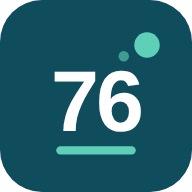
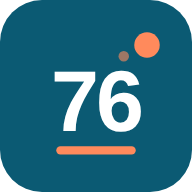
Switch identity to teal blue & orange, make background shapes visible
- Ink and teal were too close: palette is now teal blue #0b5a73 with
  orange #c2410c (dark mode #7cc4d9 / #ff8a5c on #141a24), all AA
- Homepage background back to white with more saturated soft tints and
  stronger dots so the animated background shows again
- Logo, PNG icons, theme-color, manifest, Word export, print, tirage dice
  and accessibility page follow the new palette; CLAUDE.md updated

Claude-Session: https://claude.ai/code/session_014dQTnjNuXvJ4eNxs8Srk6G

Changed region(s): [[0.2812, 0.75, 0.7188, 0.8125], [0.5938, 0.1562, 0.8438, 0.3438]]

diff --git a/accueil/style.css b/accueil/style.css
@@ -9,18 +9,18 @@
 @font-face { font-family: "Atkinson Hyperlegible"; src: url(https://cdn.jsdelivr.net/npm/@fontsource/atkinson-hyperlegible@5.3.0/files/atkinson-hyperlegible-latin-400-normal.woff2) format("woff2"); font-weight: 400; font-display: swap; }
 @font-face { font-family: "Atkinson Hyperlegible"; src: url(https://cdn.jsdelivr.net/npm/@fontsource/atkinson-hyperlegible@5.3.0/files/atkinson-hyperlegible-latin-700-normal.woff2) format("woff2"); font-weight: 700; font-display: swap; }
 
-/* ---------- 2. THÈME : identité « encre & sarcelle » ---------- */
-/* --primary : encre (titres, boutons) · --accent : sarcelle (mots mis en avant, filet) · --danger : erreurs seulement */
+/* ---------- 2. THÈME : identité « bleu canard & orange » ---------- */
+/* --primary : bleu canard (titres, boutons) · --accent : orange (mots mis en avant, filet) · --danger : erreurs seulement */
 :root {
-  --bg: #f7f8f7; --surface: #ffffff; --surface-alpha: rgba(255, 255, 255, .92);
-  --text: #17242b; --muted: #4f5d63; --border: #e1e7e7;
-  --primary: #0f4c5c; --primary-soft: #e2eef0;
-  --accent: #16796b;  --accent-soft: #e0f3ef;
+  --bg: #ffffff; --surface: #ffffff; --surface-alpha: rgba(255, 255, 255, .92);
+  --text: #17242b; --muted: #4f5d63; --border: #dfe7ea;
+  --primary: #0b5a73; --primary-soft: #cfe6ee;
+  --accent: #c2410c;  --accent-soft: #ffd9c7;
   --danger: #b42318;  --danger-soft: #fdeceb;
   --on-accent: #ffffff;
-  --rgb-a: 15, 76, 92; --rgb-b: 22, 121, 107;       /* couleurs de la constellation */
-  --shadow: 0 2px 10px rgba(15, 40, 48, .06);
-  --shadow-hover: 0 22px 40px -12px rgba(15, 40, 48, .25);
+  --rgb-a: 11, 90, 115; --rgb-b: 194, 65, 12;       /* couleurs de la constellation */
+  --shadow: 0 2px 10px rgba(11, 45, 58, .07);
+  --shadow-hover: 0 22px 40px -12px rgba(11, 45, 58, .25);
   --radius: 1rem;
 --font: "Atkinson Hyperlegible", system-ui, -apple-system, "Segoe UI", Roboto, Arial, sans-serif;
   --ease: cubic-bezier(.2, .8, .2, 1);
@@ -29,19 +29,19 @@
   color-scheme: light;
 }
 [data-theme="dark"] {
-  --bg: #101a1e; --surface: #18252b; --surface-alpha: rgba(24, 37, 43, .92);
-  --text: #e6eef0; --muted: #a9b8be; --border: #2b3c43;
-  --primary: #7cc4cf; --primary-soft: rgba(124, 196, 207, .14);
-  --accent: #5fd0b8;  --accent-soft: rgba(95, 208, 184, .13);
+  --bg: #141a24; --surface: #1c2431; --surface-alpha: rgba(28, 36, 49, .92);
+  --text: #e6eef0; --muted: #a9b8be; --border: #2c3646;
+  --primary: #7cc4d9; --primary-soft: rgba(124, 196, 217, .22);
+  --accent: #ff8a5c;  --accent-soft: rgba(255, 138, 92, .2);
   --danger: #ff8a80;  --danger-soft: rgba(255, 138, 128, .12);
-  --on-accent: #101a1e;
-  --rgb-a: 124, 196, 207; --rgb-b: 95, 208, 184;
+  --on-accent: #141a24;
+  --rgb-a: 124, 196, 217; --rgb-b: 255, 138, 92;
   --shadow: 0 2px 10px rgba(0, 0, 0, .35);
   --shadow-hover: 0 22px 40px -12px rgba(0, 0, 0, .6);
   color-scheme: dark;
 }
 [data-contrast="high"] { --muted: var(--text); --border: #5f7076; }
-[data-theme="dark"][data-contrast="high"] { --border: #9fb2b8; --bg: #000; --surface: #0b1215; }
+[data-theme="dark"][data-contrast="high"] { --border: #9fb2b8; --bg: #000; --surface: #0b0f16; }
 
 /* ---------- 3. COULEURS DE CATÉGORIES (--cat : accent AA, --cat-soft : fond) ---------- */
 .cat-bleu      { --cat: #1f4e8c; --cat-soft: #e4ecf7; }
@@ -97,10 +97,10 @@ svg { flex: none; }
   transition: translate .8s var(--ease), background-color .4s;
   animation: drift 26s ease-in-out infinite alternate;
 }
-.blob-a { --d: 30px; width: 35rem; height: 35rem; top: -14rem; left: -12rem; background: var(--primary-soft); opacity: .85; }
+.blob-a { --d: 30px; width: 35rem; height: 35rem; top: -14rem; left: -12rem; background: var(--primary-soft); opacity: 1; }
 .blob-b { --d: -40px; width: 25rem; height: 25rem; bottom: -10rem; right: -8rem; background: var(--accent-soft); animation-delay: -9s; }
 .dots {
-  --d: 60px; position: absolute; top: 55%; right: 8%; width: 14rem; height: 14rem; border-radius: 50%; opacity: .22; color: var(--primary);
+  --d: 60px; position: absolute; top: 55%; right: 8%; width: 14rem; height: 14rem; border-radius: 50%; opacity: .35; color: var(--primary);
   background: radial-gradient(currentColor 1.4px, transparent 1.6px) 0 0 / 14px 14px;
   translate: calc(var(--px, 0) * var(--d)) calc(var(--py, 0) * var(--d)); transition: translate .8s var(--ease);
 }

diff --git a/accessibilite.html b/accessibilite.html
@@ -6,22 +6,22 @@
 <meta name="viewport" content="width=device-width, initial-scale=1">
 <title>Déclaration d'accessibilité - LabERUN76</title>
 <meta name="description" content="Déclaration d'accessibilité du site LabERUN76 de la Mission Numérique Éducatif 76.">
-<meta name="theme-color" content="#0f4c5c">
+<meta name="theme-color" content="#0b5a73">
 <link rel="icon" href="accueil/icones/icon.svg" type="image/svg+xml">
 <link rel="stylesheet" href="accueil/outil.css">
 <script src="accueil/outil.js"></script>
 <style>
   /* ===== Déclaration d'accessibilité : mise en page propre à cette page (variables de outil.css) ===== */
-  :root { --largeur: 68rem; --glass: rgba(255, 255, 255, .72); --glow: rgba(15, 76, 92, .18); }
-  [data-theme="dark"] { --glass: rgba(24, 37, 43, .72); --glow: rgba(124, 196, 207, .25); }
+  :root { --largeur: 68rem; --glass: rgba(255, 255, 255, .72); --glow: rgba(11, 90, 115, .18); }
+  [data-theme="dark"] { --glass: rgba(28, 36, 49, .72); --glow: rgba(124, 196, 217, .25); }
 
   /* Fond : taches de couleur floues + grille de points */
   body { position: relative; isolation: isolate; }
   .fond { position: fixed; inset: 0; z-index: -1; overflow: hidden; pointer-events: none; }
   .fond i { position: absolute; width: 38rem; height: 38rem; border-radius: 50%; filter: blur(90px); opacity: .32; animation: flotte 18s ease-in-out infinite alternate; }
-  .fond i:nth-child(1) { background: #7cc4cf; top: -12rem; left: -10rem; }
-  .fond i:nth-child(2) { background: #5fd0b8; top: 20rem; right: -14rem; animation-delay: -6s; }
-  .fond i:nth-child(3) { background: #a8d8cf; bottom: -16rem; left: 25%; animation-delay: -12s; }
+  .fond i:nth-child(1) { background: #7cc4d9; top: -12rem; left: -10rem; }
+  .fond i:nth-child(2) { background: #ff8a5c; top: 20rem; right: -14rem; animation-delay: -6s; }
+  .fond i:nth-child(3) { background: #cfe6ee; bottom: -16rem; left: 25%; animation-delay: -12s; }
   [data-theme="dark"] .fond i { opacity: .22; }
   .fond::after { content: ""; position: absolute; inset: 0; background-image: radial-gradient(var(--border) 1px, transparent 1px); background-size: 22px 22px; mask-image: linear-gradient(#000, transparent 70%); }
   @keyframes flotte { to { transform: translate(4rem, 3rem) scale(1.15); } }
@@ -99,7 +99,7 @@
   address { font-style: normal; margin-top: .6rem; padding: .9rem 1.1rem; border-radius: 1rem; background: var(--surface-2); border: 1px solid var(--border); line-height: 1.5; }
 
   /* Carte contact en dégradé (couleurs fixes : texte blanc lisible en clair comme en sombre) */
-  .contact { color: #fff; border: 0; background: linear-gradient(135deg, #0f4c5c, #16796b); box-shadow: 0 25px 50px -20px rgba(15, 76, 92, .55); overflow: clip; }
+  .contact { color: #fff; border: 0; background: linear-gradient(135deg, #0b5a73, #c2410c); box-shadow: 0 25px 50px -20px rgba(11, 90, 115, .55); overflow: clip; }
   .contact .surtitre { color: #fff; opacity: .9; }
   .contact a { color: #fff; }
   .contact .a-definir { background: rgba(255, 255, 255, .15); border-color: #fff; color: #fff; }
@@ -117,7 +117,7 @@
   [data-contrast="high"] { --glass: var(--surface); }
   [data-contrast="high"] .grad { background: none; color: var(--primary); }
   [data-contrast="high"] .tuile, [data-contrast="high"] .puces-nav ol { border-width: 2px; backdrop-filter: none; }
-  [data-contrast="high"] .contact { background: #0f4c5c; }
+  [data-contrast="high"] .contact { background: #0b5a73; }
   [data-theme="dark"][data-contrast="high"] .contact { background: #000; border: 2px solid #fff; }
 
   @media (max-width: 34rem) {

diff --git a/accueil/outil.css b/accueil/outil.css
@@ -1,6 +1,6 @@
 /* =====================================================================
    LabERUN76 — UI de référence des outils
-   Même identité que l'accueil (police Atkinson Hyperlegible, encre & sarcelle, thème partagé), en plus simple.
+   Même identité que l'accueil (police Atkinson Hyperlegible, bleu canard & orange, thème partagé), en plus simple.
    Un outil l'utilise avec :
      <link rel="stylesheet" href="../../accueil/outil.css">
      <script src="../../accueil/outil.js"></script>
@@ -16,17 +16,17 @@
 @font-face { font-family: "Atkinson Hyperlegible"; src: url(https://cdn.jsdelivr.net/npm/@fontsource/atkinson-hyperlegible@5.3.0/files/atkinson-hyperlegible-latin-700-normal.woff2) format("woff2"); font-weight: 700; font-display: swap; }
 
 /* ---------- 2. THÈME (mêmes couleurs que l'accueil ; réglages partagés via outil.js) ---------- */
-/* --primary : encre · --accent : sarcelle (marque) · --danger : erreurs, absences, suppressions · --green, --orange : états */
+/* --primary : bleu canard · --accent : orange (marque) · --danger : erreurs, absences, suppressions · --green, --orange : états */
 :root {
-  --bg: #f7f8f7; --surface: #ffffff; --surface-2: #f2f5f5;
-  --text: #17242b; --muted: #4f5d63; --border: #e1e7e7;
-  --primary: #0f4c5c; --primary-soft: #e2eef0;
-  --accent: #16796b;  --accent-soft: #e0f3ef;
+  --bg: #f6f8f9; --surface: #ffffff; --surface-2: #f2f6f7;
+  --text: #17242b; --muted: #4f5d63; --border: #dfe7ea;
+  --primary: #0b5a73; --primary-soft: #dcecf2;
+  --accent: #c2410c;  --accent-soft: #ffe6d9;
   --danger: #b42318;  --danger-soft: #fdeceb;
   --green: #18753c; --green-soft: #dffee6;
   --orange: #a94700; --orange-soft: #fff0e5;
   --on-accent: #ffffff;
-  --shadow: 0 2px 10px rgba(15, 40, 48, .06);
+  --shadow: 0 2px 10px rgba(11, 45, 58, .07);
   --radius: 1rem;
   --font: "Atkinson Hyperlegible", system-ui, -apple-system, "Segoe UI", Roboto, Arial, sans-serif;
   --spring: cubic-bezier(.34, 1.56, .64, 1);
@@ -34,19 +34,19 @@
   color-scheme: light;
 }
 [data-theme="dark"] {
-  --bg: #101a1e; --surface: #18252b; --surface-2: #1f2f36;
-  --text: #e6eef0; --muted: #a9b8be; --border: #2b3c43;
-  --primary: #7cc4cf; --primary-soft: rgba(124, 196, 207, .14);
-  --accent: #5fd0b8;  --accent-soft: rgba(95, 208, 184, .13);
+  --bg: #141a24; --surface: #1c2431; --surface-2: #232d3c;
+  --text: #e6eef0; --muted: #a9b8be; --border: #2c3646;
+  --primary: #7cc4d9; --primary-soft: rgba(124, 196, 217, .16);
+  --accent: #ff8a5c;  --accent-soft: rgba(255, 138, 92, .14);
   --danger: #ff8a80;  --danger-soft: rgba(255, 138, 128, .12);
   --green: #3fcf7a; --green-soft: rgba(63, 207, 122, .12);
   --orange: #ff914d; --orange-soft: rgba(255, 145, 77, .13);
-  --on-accent: #101a1e;
+  --on-accent: #141a24;
   --shadow: 0 2px 10px rgba(0, 0, 0, .35);
   color-scheme: dark;
 }
 [data-contrast="high"] { --muted: var(--text); --border: #5f7076; }
-[data-theme="dark"][data-contrast="high"] { --border: #9fb2b8; --bg: #000; --surface: #0b1215; --surface-2: #142024; }
+[data-theme="dark"][data-contrast="high"] { --border: #9fb2b8; --bg: #000; --surface: #0b0f16; --surface-2: #151b26; }
 
 /* ---------- 3. BASE ---------- */
 *, *::before, *::after { margin: 0; padding: 0; box-sizing: border-box; }

diff --git a/Outils/orga-recre/orga_recre.html b/Outils/orga-recre/orga_recre.html
@@ -5,7 +5,7 @@
 <meta name="viewport" content="width=device-width, initial-scale=1">
 <title>Organisateur de récréation</title>
 <meta name="description" content="Répartition automatique des services d'accueil et de récréation entre les enseignants, exportable en Word.">
-<meta name="theme-color" content="#0f4c5c">
+<meta name="theme-color" content="#0b5a73">
 <link rel="icon" href="../../accueil/icones/icon.svg" type="image/svg+xml">
 <!-- UI de référence des outils LabERUN76 -->
 <link rel="stylesheet" href="../../accueil/outil.css">
@@ -537,7 +537,7 @@ function badgeHtml(t, day, label, type) {
 // Couleurs des étiquettes (mêmes que les classes .tc-0 à .tc-11) : [fond, texte]
 const TC = [['#DBEAFE','#1D4ED8'],['#FCE7F3','#9D174D'],['#D1FAE5','#065F46'],['#FEF3C7','#92400E'],['#EDE9FE','#5B21B6'],['#FFE4E6','#9F1239'],
             ['#CFFAFE','#164E63'],['#FEF9C3','#713F12'],['#F0FDF4','#14532D'],['#F5F3FF','#4C1D95'],['#FFF7ED','#7C2D12'],['#ECFDF5','#064E3B']];
-const TYPE_COULEUR = { grille: '#A94700', matin: '#0F4C5C', aprem: '#18753C' };
+const TYPE_COULEUR = { grille: '#A94700', matin: '#0B5A73', aprem: '#18753C' };
 
 // Le document reprend le tableau affiché, y compris les étiquettes déplacées à la main
 function exportWord() {
@@ -581,13 +581,13 @@ function printPlanning() {
   body { font-family: 'Atkinson Hyperlegible', Arial, sans-serif; background: white; color: #1a1a1a; padding: 24px; }
 
   .print-header { display: flex; align-items: flex-end; justify-content: space-between; margin-bottom: 6px; }
-  .print-title { font-size: 22px; font-weight: 700; color: #0F4C5C; }
+  .print-title { font-size: 22px; font-weight: 700; color: #0B5A73; }
   .print-date { font-size: 11px; color: #6B7280; }
-  .stripe { height: 4px; background: linear-gradient(90deg, #0F4C5C, #16796B); margin-bottom: 18px; }
+  .stripe { height: 4px; background: linear-gradient(90deg, #0B5A73, #C2410C); margin-bottom: 18px; }
 
   table { width: 100%; border-collapse: collapse; font-size: 12px; }
   thead th {
-    background: #0F4C5C !important;
+    background: #0B5A73 !important;
     -webkit-print-color-adjust: exact;
     print-color-adjust: exact;
     color: white !important;
@@ -604,7 +604,7 @@ function printPlanning() {
 
   .slot-label { font-size: 11px; font-weight: 700; }
   .slot-type-grille { color: #A94700; }
-  .slot-type-matin  { color: #0F4C5C; }
+  .slot-type-matin  { color: #0B5A73; }
   .slot-type-aprem  { color: #18753C; }
 
   .cell-drop { display: flex; flex-wrap: wrap; gap: 3px; align-items: center; min-height: 28px; }

diff --git a/accueil/outil.js b/accueil/outil.js
@@ -30,7 +30,7 @@
     root.style.setProperty('--text-scale', prefs.text / 100);
     d.getElementById('theme-toggle')?.setAttribute('aria-label', dark ? 'Activer le mode clair' : 'Activer le mode sombre');
     const meta = d.querySelector('meta[name="theme-color"]');
-    if (meta) meta.content = dark ? '#101a1e' : '#0f4c5c';
+    if (meta) meta.content = dark ? '#141a24' : '#0b5a73';
   }
   appliquer();
   darkMq.addEventListener?.('change', () => prefs.theme === 'auto' && appliquer());
@@ -152,12 +152,12 @@
       return `<w:tbl><w:tblPr><w:tblW w:w="${utile}" w:type="dxa"/><w:tblBorders>${bord}</w:tblBorders>`
         + `<w:tblCellMar><w:top w:w="70" w:type="dxa"/><w:left w:w="100" w:type="dxa"/><w:bottom w:w="70" w:type="dxa"/><w:right w:w="100" w:type="dxa"/></w:tblCellMar></w:tblPr>`
         + `<w:tblGrid>${w.map(v => `<w:gridCol w:w="${v}"/>`).join('')}</w:tblGrid>`
-        + `<w:tr><w:trPr><w:tblHeader/></w:trPr>${entetes.map((e, i) => tc(para([{ texte: e, gras: true, couleur: 'FFFFFF' }]), i, '0F4C5C')).join('')}</w:tr>`
-        + lignes.map((l, r) => `<w:tr><w:trPr><w:cantSplit/></w:trPr>${l.map((c, i) => tc(cellule(c), i, r % 2 ? 'F2F5F5' : '')).join('')}</w:tr>`).join('')
+        + `<w:tr><w:trPr><w:tblHeader/></w:trPr>${entetes.map((e, i) => tc(para([{ texte: e, gras: true, couleur: 'FFFFFF' }]), i, '0B5A73')).join('')}</w:tr>`
+        + lignes.map((l, r) => `<w:tr><w:trPr><w:cantSplit/></w:trPr>${l.map((c, i) => tc(cellule(c), i, r % 2 ? 'F2F6F7' : '')).join('')}</w:tr>`).join('')
         + `</w:tbl><w:p/>`;
     };
 
-    const corps = blocs.map(b => b.titre != null ? para([{ texte: b.titre, gras: true, taille: 20, couleur: '0F4C5C' }], 60)
+    const corps = blocs.map(b => b.titre != null ? para([{ texte: b.titre, gras: true, taille: 20, couleur: '0B5A73' }], 60)
       : b.tableau ? tableau(b.tableau)
       : para([b.discret ? { texte: b.texte, couleur: '4F5D63', taille: 9 } : { texte: b.texte }], 200)).join('');
 

diff --git a/sw.js b/sw.js
@@ -1,6 +1,6 @@
 /* LabERUN76 — service worker : fonctionnement hors ligne.
    VERSION et CORE sont mis à jour par « npm run generer » : les postes récupèrent la nouvelle version. */
-const VERSION = 'laberun76-bcbb7f1cf5';
+const VERSION = 'laberun76-a1833d4e06';
 const CORE = ["./","./index.html","./accessibilite.html","./manifest.webmanifest","./accueil/icones/apple-touch-icon.png","./accueil/icones/icon-192.png","./accueil/icones/icon-512.png","./accueil/icones/icon-maskable-512.png","./accueil/icones/icon.svg","./accueil/outil.css","./accueil/outil.js","./accueil/outils.js","./accueil/script.js","./accueil/style.css","https://cdn.jsdelivr.net/npm/@fontsource/atkinson-hyperlegible@5.3.0/files/atkinson-hyperlegible-latin-400-normal.woff2","https://cdn.jsdelivr.net/npm/@fontsource/atkinson-hyperlegible@5.3.0/files/atkinson-hyperlegible-latin-700-normal.woff2"];
 const POLICES = 'https://cdn.jsdelivr.net/npm/@fontsource/atkinson-hyperlegible@';
 

diff --git a/Outils/tirage-au-sort/css/style.css b/Outils/tirage-au-sort/css/style.css
@@ -117,7 +117,7 @@ button, input[type="range"] { touch-action: manipulation; }
   position: relative; display: block; width: 3.1rem; height: 3.1rem; margin: 0 auto .5rem;
   background: #fff; border-radius: .9rem;
 }
-.dieButton i { position: absolute; display: block; width: .5rem; height: .5rem; background: #0f4c5c; border-radius: 50%; }
+.dieButton i { position: absolute; display: block; width: .5rem; height: .5rem; background: #0b5a73; border-radius: 50%; }
 .dieButton i:nth-child(1) { left: 22%; top: 22%; }
 .dieButton i:nth-child(2) { right: 22%; top: 22%; }
 .dieButton i:nth-child(3) { left: calc(50% - .25rem); top: calc(50% - .25rem); }

diff --git a/index.html b/index.html
@@ -8,7 +8,7 @@
 <meta name="viewport" content="width=device-width, initial-scale=1, viewport-fit=cover">
 <title>LabERUN76 - Outils numériques</title>
 <meta name="description" content="Outils numériques pour l'école primaire - Mission Numérique Éducatif 76">
-<meta name="theme-color" content="#0f4c5c">
+<meta name="theme-color" content="#0b5a73">
 <link rel="manifest" href="manifest.webmanifest">
 <link rel="icon" href="accueil/icones/icon.svg" type="image/svg+xml">
 <link rel="apple-touch-icon" href="accueil/icones/apple-touch-icon.png">

diff --git a/Outils/tirage-au-sort/index.html b/Outils/tirage-au-sort/index.html
@@ -5,7 +5,7 @@
 <meta name="viewport" content="width=device-width, initial-scale=1">
 <title>Tirage au sort</title>
 <meta name="description" content="Tirage au sort de noms avec liste importable, durée réglable et confettis, et lancer de dés.">
-<meta name="theme-color" content="#0f4c5c">
+<meta name="theme-color" content="#0b5a73">
 <link rel="icon" href="icon.png">
 <!-- UI de référence des outils LabERUN76 -->
 <link rel="stylesheet" href="../../accueil/outil.css">

diff --git a/Outils/_modele/index.html b/Outils/_modele/index.html
@@ -9,7 +9,7 @@
 <meta name="viewport" content="width=device-width, initial-scale=1">
 <title>Nom de l'outil</title>
 <meta name="description" content="Une phrase qui dit ce qu'on fait avec l'outil.">
-<meta name="theme-color" content="#0f4c5c">
+<meta name="theme-color" content="#0b5a73">
 <link rel="icon" href="../../accueil/icones/icon.svg" type="image/svg+xml">
 <link rel="stylesheet" href="../../accueil/outil.css">
 <script src="../../accueil/outil.js"></script>

diff --git a/accueil/script.js b/accueil/script.js
@@ -31,7 +31,7 @@
     root.dataset.contrast = prefs.contrast ? 'high' : 'normal';
     root.style.setProperty('--text-scale', prefs.text / 100);
     themeBtn.setAttribute('aria-label', dark ? 'Activer le mode clair' : 'Activer le mode sombre');
-    metaTheme.content = dark ? '#101a1e' : '#0f4c5c';
+    metaTheme.content = dark ? '#141a24' : '#0b5a73';
     anim.refresh();
   }
   darkMq.addEventListener?.('change', () => prefs.theme === 'auto' && apply());

diff --git a/CLAUDE.md b/CLAUDE.md
@@ -134,7 +134,7 @@ Claude fait alors tout, sans poser de question sauf blocage réel :
 ### UI de référence des outils
 Deux niveaux de design :
 - **UI de base = la page d'accueil** (`accueil/style.css`) : animations, fond, constellation, cartes. Elle ne sert qu'à l'accueil.
-- **UI de référence des outils = `accueil/outil.css` + `accueil/outil.js`** : même identité (Atkinson Hyperlegible, encre & sarcelle, mêmes couleurs),
+- **UI de référence des outils = `accueil/outil.css` + `accueil/outil.js`** : même identité (Atkinson Hyperlegible, bleu canard & orange, mêmes couleurs),
   en plus simple, avec les réglages d'affichage **partagés** avec l'accueil (thème, contraste, taille du texte, animations).
 
 Pour un outil : partir de `Outils/_modele/index.html` (lien d'évitement, en-tête avec retour à l'accueil et bouton de thème — `outil.js` y ajoute
@@ -156,7 +156,7 @@ Pour une **nouvelle couleur** :
 1. dans `accueil/style.css`, section 3, ajouter `.cat-xxx { --cat: …; --cat-soft: …; }` et sa variante `[data-theme="dark"] .cat-xxx` ;
 2. dans `scripts/generer.mjs`, ajouter `'xxx'` à `COULEURS`.
 
-La couleur `--cat` doit avoir un **contraste d'au moins 4,5:1** sur le fond (blanc en clair, `#18252b` en sombre).
+La couleur `--cat` doit avoir un **contraste d'au moins 4,5:1** sur le fond (blanc en clair, `#1c2431` en sombre).
 
 ### Changer les textes de la page
 Dans `index.html` :
@@ -168,15 +168,16 @@ Dans `index.html` :
 Pour le logo : déposer `logo.png` dans `accueil/`, décommenter la ligne `<img src="accueil/logo.png">` dans `index.html`, puis lancer `npm run generer` (le logo est alors ajouté au hors ligne).
 
 ### Identité visuelle
-- **Couleurs** (variables, jamais de valeurs en dur) : `--primary` encre `#0f4c5c` (titres, boutons, en-têtes de tableau),
-  `--accent` sarcelle `#16796b` (mots mis en avant, nom « 76 », filet, bouton principal d'un outil),
-  `--danger` rouge `#b42318` réservé aux erreurs, absences et suppressions ; en sombre : `#7cc4cf`, `#5fd0b8`, `#ff8a80`.
+- **Couleurs** (variables, jamais de valeurs en dur) : `--primary` bleu canard `#0b5a73` (titres, boutons, en-têtes de tableau),
+  `--accent` orange `#c2410c` (mots mis en avant, nom « 76 », filet, bouton principal d'un outil),
+  `--danger` rouge `#b42318` réservé aux erreurs, absences et suppressions ; en sombre : `#7cc4d9`, `#ff8a5c`, `#ff8a80`
+  sur un fond `#141a24`. Les teintes `--primary-soft` et `--accent-soft` colorent le fond animé : assez saturées pour rester visibles.
   Toutes passent le contraste AA sur leur fond. Pas de bleu-blanc-rouge : le site n'utilise pas l'identité de l'État.
 - **Police** : Atkinson Hyperlegible (400 et 700), conçue pour la lisibilité ; le zéro barré est voulu (pas de confusion avec O).
-- **Logo** : `accueil/icones/icon.svg` (carré encre, « 76 », bulle et trait sarcelle), affiché à côté du nom dans les en-têtes.
+- **Logo** : `accueil/icones/icon.svg` (carré bleu canard, « 76 » blanc, bulle et trait orange), affiché à côté du nom dans les en-têtes.
   Les PNG (`apple-touch-icon`, `icon-192`, `icon-512`, `icon-maskable-512`) se régénèrent à partir de ce SVG
   (la version « maskable » a un fond plein et son contenu réduit à 80 %).
-- **Filet** : `.filet`, trait encre → sarcelle sous l'en-tête (remplace l'ancienne bande tricolore).
+- **Filet** : `.filet`, trait bleu canard → orange sous l'en-tête (remplace l'ancienne bande tricolore).
 
 ### Changer les couleurs, la police ou l'aspect
 Tout est dans `accueil/style.css`, découpé en 11 sections numérotées :
@@ -296,4 +297,4 @@ Pour tester l'installation et le hors ligne, il faut passer par `npm run apercu`
 | UI des outils | UI de référence commune aux outils (`accueil/outil.css`, `accueil/outil.js`, modèle `Outils/_modele/`), réglages partagés avec l'accueil, export Word |
 | Relecture | Tirage au sort passé à l'UI de référence, étiquettes de l'organisateur déplaçables au doigt et au clavier, plus aucun `onclick` dans les outils, fichiers des outils toujours à jour hors ligne, branche de référence `main` |
 | **LabERUN76** | Renommage d'Apps1D76 en LabERUN76, publication sur la Forge uniquement (workflow GitHub retiré, tutoriels réécrits), revue du code (organisateur, tirage au sort) |
-| Identité propre | Palette « encre & sarcelle », police Atkinson Hyperlegible, nouveau logo ; fin du bleu-blanc-rouge et de Marianne |
+| Identité propre | Palette « bleu canard & orange », police Atkinson Hyperlegible, nouveau logo ; fin du bleu-blanc-rouge et de Marianne |
